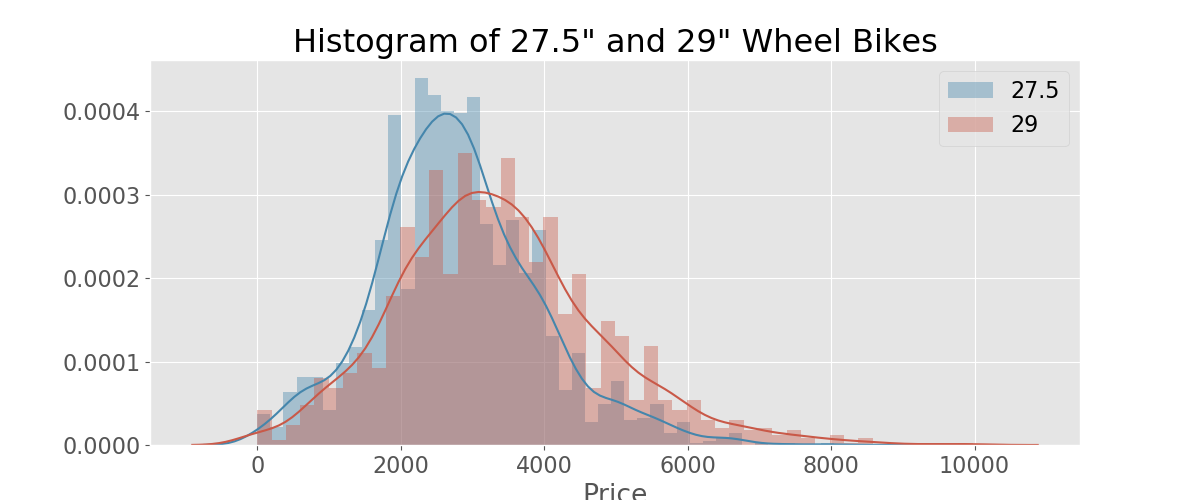
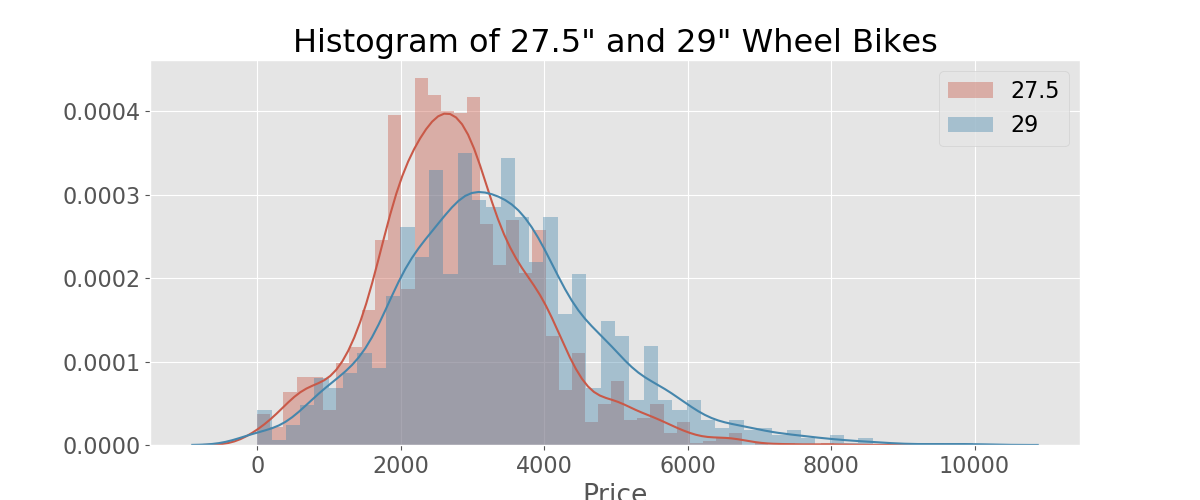
editied the graphs

Changed region(s): [[0.1542, 0.15, 0.8325, 0.9], [0.7708, 0.15, 0.8325, 0.27]]

diff --git a/src/plots.py b/src/plots.py
@@ -6,11 +6,6 @@ import seaborn as sns
 plt.style.use('ggplot')
 plt.rcParams.update({'font.size': 16})
 import scipy.stats as stats
-# from matplotlib.colors import ListedColormap
-
-# # construct cmap
-# flatui = ["#9b59b6", "#3498db", "#95a5a6", "#e74c3c", "#34495e", "#2ecc71"]
-# my_cmap = ListedColormap(sns.color_palette(flatui).as_hex())
 
 
 def get_norm_coef(df):
@@ -29,28 +24,35 @@ def box_plot_df(df):
     not_75 = df['Front_travel']!=175
     return df[(greater_90)&(less_than200)&(price_gr_0)&(not_75)]
 
+def fix_aluminum_spelling(string):
+    if string =='Aluminium':
+        return "Aluminum"
+    else:
+        return string
+
 
 if __name__=='__main__':
+    # Import Data
     df_29 = pd.read_csv('/home/devin/Documents/Galvanize/repos/Galvanize_Capstone_1/data/cleaned_data_29.csv')
     df_275 = pd.read_csv('/home/devin/Documents/Galvanize/repos/Galvanize_Capstone_1/data/cleaned_data_275.csv')
     df = pd.read_csv('/home/devin/Documents/Galvanize/repos/Galvanize_Capstone_1/data/cleaned_data.csv')
-   
+    df['Material'] = df['Material'].apply(fix_aluminum_spelling)
+    df_29['Material'] = df_29['Material'].apply(fix_aluminum_spelling)
+    df_275['Material'] = df_275['Material'].apply(fix_aluminum_spelling)
+   # Calculate Values for T_test and Normal Distribution
     mean_29, std_29 = get_norm_coef(df_29)
     mean_275, std_275 = get_norm_coef(df_275)
-
     norm_29 = normal_dist(mean_29,std_29)
     norm_275 = normal_dist(mean_275,std_275)
-    
-    x1 = np.linspace(mean_275-6*std_275,mean_275+6*std_275,500)
-    x2 = np.linspace(mean_29-6*std_29,mean_29+6*std_29,500)
-
+    x1 = np.linspace(mean_275-20*std_275,mean_275+20*std_275,500)
+    x2 = np.linspace(mean_29-20*std_29,mean_29+20*std_29,500)
     t_test = stats.ttest_ind(df_29['Price'],df_275['Price'],equal_var=False)
-    fig, ax = plt.subplots(figsize=(12,8))
 
+
+    # Distribution of means plots
+    fig, ax = plt.subplots(figsize=(12,8))
     ax.plot(x1,norm_275.pdf(x1),color='#C95948',label='27.5')
     ax.plot(x2,norm_29.pdf(x2),color= '#4586AC',label='29')
-    # sns.lineplot(x=x1,y=norm_275.pdf(x1),color='tab:red',ax=ax,label='27.5')
-    # sns.lineplot(x=x2,y=norm_29.pdf(x2),color='tab:blue',ax=ax,label='29')
     ax.set_title('Distribution of Bike Value Means Given Wheel Size')
     ax.set_xlabel("Mean Price")
     ax.set_ylabel("Probablility Density Function (Price)")
@@ -69,35 +71,41 @@ if __name__=='__main__':
     plt.xticks(rotation=35)
     ax.legend()
 
+
+    # Histogram with KDE
+
     fig1,ax1 = plt.subplots(figsize=(12,5))
-    sns.distplot(df_275['Price'],color='#4586AC',bins=50,kde=True,ax=ax1,label='27.5')
-    sns.distplot(df_29['Price'],color='#C95948',bins=50,kde=True,ax=ax1,label='29')
+    sns.distplot(df_275['Price'],color='#C95948',bins=50,kde=True,ax=ax1,label='27.5')
+    sns.distplot(df_29['Price'],color='#4586AC',bins=50,kde=True,ax=ax1,label='29')
     ax1.set_title('Histogram of 27.5" and 29" Wheel Bikes')
     ax1.legend()
     
-   
 
+    # Histogram without KDE
     fig2,ax2 = plt.subplots(figsize=(12,5))
     bins_ = [i for i in range(0,10000,150)]
-   
     sns.distplot(df_275['Price'],color='#C95948',bins=bins_,kde=False,ax=ax2,label='27.5')
     sns.distplot(df_29['Price'],color='#4586AC',bins=bins_,kde=False,ax=ax2,label='29')
-    
-
     ax2.set_xticks(np.linspace(0,10000,25))
     ax2.set_title('Histogram of 27.5" and 29" Wheel Bikes')
     ax2.set_ylabel('Count')
     ax2.set_xlabel('Price')
     ax2.legend()
     plt.xticks(rotation=35)
-    
+
+
+    # Box plot of materials Given Wheel Size
     fig3,ax3 = plt.subplots(figsize=(12,5))
     sns.boxplot(x='Front_travel',y='Price',data = box_plot_df(df),hue="Wheel_Size",ax=ax3)
     ax3.set_xlabel('Front Travel')
+    ax3.set_title('Distributions of Price With Varying Suspension Travel')
 
+    # Box Plot of materials
+    fig4,ax4 = plt.subplots(figsize=(8,10))
+    sns.boxplot(x='Material',y='Price',data=df,order=['Steel','Chromoly','Aluminum','Carbon Fiber','Titanium'])
+    ax4.set_title('Distributions of Frame Material')
+    plt.xticks(rotation=35)
 
-    fig4,ax4 = plt.subplots(figsize=(7,9))
-    sns.boxplot(x='Material',y='Price',data=df)
     plt.tight_layout()
     plt.show()
 
